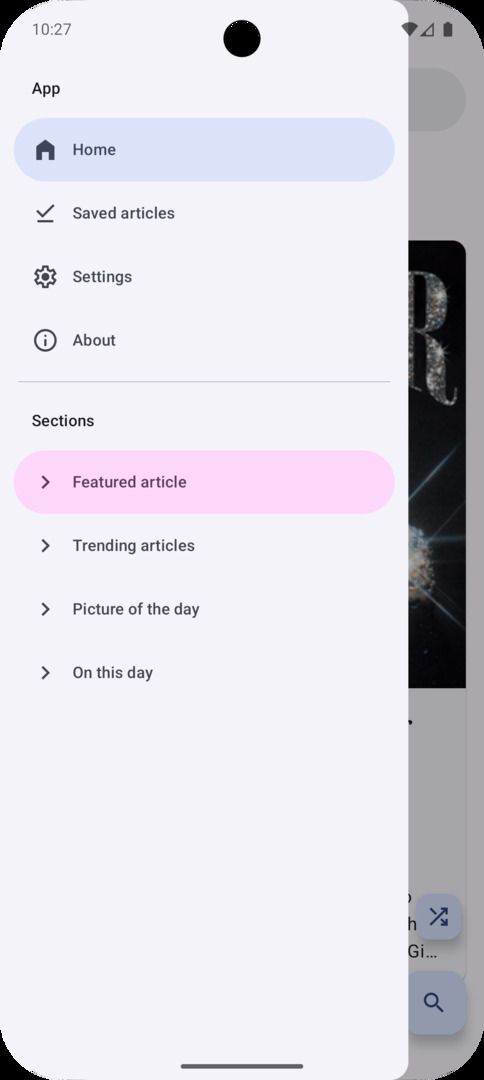
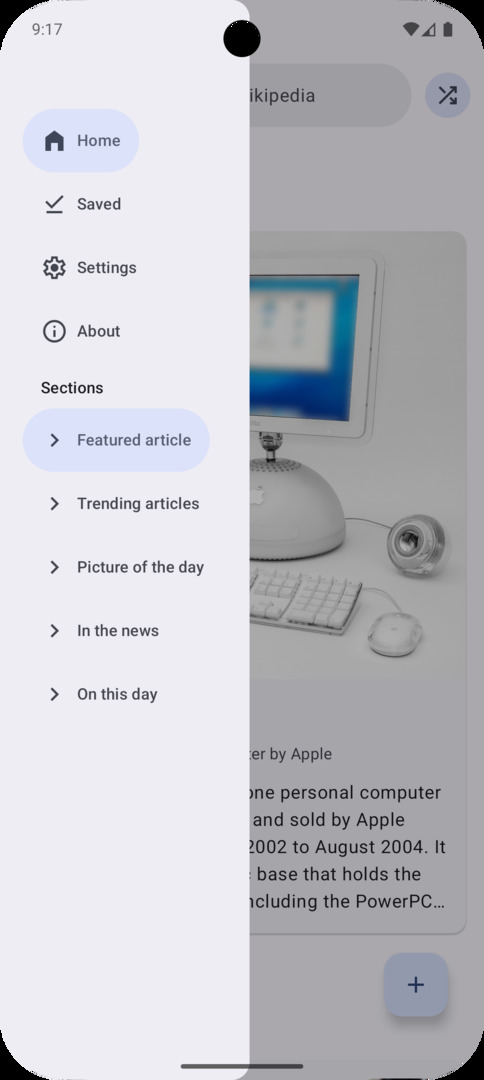
Implement page contents in navigation rail
Migration to navigation rail is now complete. #162, Closes #163

diff --git a/app/src/main/java/org/nsh07/wikireader/ui/AppNavigationDrawer.kt b/app/src/main/java/org/nsh07/wikireader/ui/AppNavigationDrawer.kt
@@ -1,17 +1,35 @@
 package org.nsh07.wikireader.ui
 
+import androidx.compose.animation.AnimatedVisibility
 import androidx.compose.animation.Crossfade
+import androidx.compose.animation.core.animateDpAsState
 import androidx.compose.animation.core.animateFloatAsState
+import androidx.compose.animation.expandHorizontally
+import androidx.compose.animation.shrinkHorizontally
+import androidx.compose.foundation.layout.Arrangement
+import androidx.compose.foundation.layout.Box
+import androidx.compose.foundation.layout.Column
 import androidx.compose.foundation.layout.Row
+import androidx.compose.foundation.layout.Spacer
+import androidx.compose.foundation.layout.asPaddingValues
+import androidx.compose.foundation.layout.fillMaxWidth
+import androidx.compose.foundation.layout.height
 import androidx.compose.foundation.layout.padding
+import androidx.compose.foundation.layout.widthIn
 import androidx.compose.foundation.lazy.LazyListState
+import androidx.compose.foundation.rememberScrollState
+import androidx.compose.foundation.verticalScroll
+import androidx.compose.material.icons.Icons
+import androidx.compose.material.icons.automirrored.outlined.KeyboardArrowRight
 import androidx.compose.material3.ExperimentalMaterial3ExpressiveApi
 import androidx.compose.material3.Icon
 import androidx.compose.material3.IconButton
 import androidx.compose.material3.MaterialTheme.motionScheme
+import androidx.compose.material3.MaterialTheme.typography
 import androidx.compose.material3.ModalWideNavigationRail
 import androidx.compose.material3.Text
 import androidx.compose.material3.WideNavigationRail
+import androidx.compose.material3.WideNavigationRailDefaults
 import androidx.compose.material3.WideNavigationRailItem
 import androidx.compose.material3.WideNavigationRailState
 import androidx.compose.material3.WideNavigationRailValue
@@ -25,6 +43,8 @@ import androidx.compose.ui.graphics.graphicsLayer
 import androidx.compose.ui.graphics.painter.Painter
 import androidx.compose.ui.res.painterResource
 import androidx.compose.ui.res.stringResource
+import androidx.compose.ui.text.style.TextOverflow
+import androidx.compose.ui.unit.Dp
 import androidx.compose.ui.unit.dp
 import androidx.navigation.NavBackStackEntry
 import androidx.navigation.NavDestination.Companion.hasRoute
@@ -34,6 +54,7 @@ import kotlinx.coroutines.CoroutineScope
 import kotlinx.coroutines.launch
 import org.nsh07.wikireader.R.drawable
 import org.nsh07.wikireader.R.string
+import org.nsh07.wikireader.data.WRStatus
 import org.nsh07.wikireader.ui.viewModel.FeedSection
 import org.nsh07.wikireader.ui.viewModel.FeedState
 import org.nsh07.wikireader.ui.viewModel.HomeScreenState
@@ -92,10 +113,11 @@ fun AppNavigationDrawer(
 
     val compactScreen =
         remember { windowSizeClass.windowWidthSizeClass == WindowWidthSizeClass.COMPACT }
-    val mediumScreen =
-        remember { windowSizeClass.windowWidthSizeClass == WindowWidthSizeClass.MEDIUM }
     val expandedScreen =
         remember { windowSizeClass.windowWidthSizeClass == WindowWidthSizeClass.EXPANDED }
+
+
+    val boxWidth = remember { 360.dp }
 
     LaunchedEffect(expandedScreen) {
         scope.launch {
@@ -104,102 +126,84 @@ fun AppNavigationDrawer(
         }
     }
 
-    Row {
-        if (compactScreen || mediumScreen) {
-            ModalWideNavigationRail(
-                state = state,
-                hideOnCollapse = compactScreen,
-                header = if (mediumScreen) {
-                    {
+    Row(modifier = modifier) {
+        AnimatedVisibility(
+            backStackEntry?.destination?.hasRoute(FullScreenImage::class) != true,
+            enter = expandHorizontally(animationSpec = motionScheme.defaultSpatialSpec()),
+            exit = shrinkHorizontally(animationSpec = motionScheme.defaultSpatialSpec())
+        ) {
+            if (compactScreen) {
+                ModalWideNavigationRail(
+                    state = state,
+                    hideOnCollapse = true
+                ) {
+                    AppNavigationRailContent(
+                        backStackEntry = backStackEntry,
+                        items = items,
+                        state = state,
+                        scope = scope,
+                        expandedScreen = expandedScreen,
+                        feedState = feedState,
+                        feedListState = feedListState,
+                        homeScreenState = homeScreenState,
+                        listState = listState,
+                        boxWidth = boxWidth
+                    )
+                }
+            } else {
+                WideNavigationRail(
+                    state = state,
+                    header = {
                         val expanded = state.targetValue == WideNavigationRailValue.Expanded
                         val rotation by animateFloatAsState(
                             if (expanded) 0f else -180f
                         )
-                        IconButton(
-                            modifier = Modifier.padding(start = 24.dp),
-                            onClick = {
-                                scope.launch {
-                                    if (expanded)
-                                        state.collapse()
-                                    else state.expand()
-                                }
-                            }
-                        ) {
-                            Crossfade(
-                                expanded,
-                                modifier = Modifier.graphicsLayer {
-                                    rotationZ = rotation
+                        Box(Modifier.fillMaxWidth()) {
+                            IconButton(
+                                modifier = Modifier.padding(start = 24.dp),
+                                onClick = {
+                                    scope.launch {
+                                        if (expanded)
+                                            state.collapse()
+                                        else state.expand()
+                                    }
                                 }
                             ) {
-                                when (it) {
-                                    true -> Icon(
-                                        painterResource(drawable.menu_open),
-                                        "Collapse rail"
-                                    )
+                                Crossfade(
+                                    expanded,
+                                    modifier = Modifier.graphicsLayer {
+                                        rotationZ = rotation
+                                    }
+                                ) {
+                                    when (it) {
+                                        true -> Icon(
+                                            painterResource(drawable.menu_open),
+                                            "Collapse rail",
+                                        )
 
-                                    else -> {
-                                        Icon(painterResource(drawable.menu), "Expand rail")
+                                        else -> Icon(
+                                            painterResource(drawable.menu),
+                                            "Expand rail"
+                                        )
                                     }
                                 }
                             }
                         }
                     }
-                } else null
-            ) {
-                AppNavigationRailContent(
-                    backStackEntry = backStackEntry,
-                    items = items,
-                    state = state,
-                    scope = scope,
-                    expandedScreen = expandedScreen
-                )
-            }
-        } else {
-            WideNavigationRail(
-                state = state,
-                header = {
-                    val expanded = state.targetValue == WideNavigationRailValue.Expanded
-                    val rotation by animateFloatAsState(
-                        if (expanded) 0f else -180f
+                ) {
+                    AppNavigationRailContent(
+                        backStackEntry = backStackEntry,
+                        items = items,
+                        state = state,
+                        scope = scope,
+                        expandedScreen = expandedScreen,
+                        feedState = feedState,
+                        feedListState = feedListState,
+                        homeScreenState = homeScreenState,
+                        listState = listState,
+                        boxWidth = boxWidth
                     )
-                    IconButton(
-                        modifier = Modifier.padding(start = 24.dp),
-                        onClick = {
-                            scope.launch {
-                                if (expanded)
-                                    state.collapse()
-                                else state.expand()
-                            }
-                        }
-                    ) {
-                        Crossfade(
-                            expanded,
-                            modifier = Modifier.graphicsLayer {
-                                rotationZ = rotation
-                            }
-                        ) {
-                            when (it) {
-                                true -> Icon(
-                                    painterResource(drawable.menu_open),
-                                    "Collapse rail",
-                                )
-
-                                else -> Icon(
-                                    painterResource(drawable.menu),
-                                    "Expand rail"
-                                )
-                            }
-                        }
-                    }
                 }
-            ) {
-                AppNavigationRailContent(
-                    backStackEntry = backStackEntry,
-                    items = items,
-                    state = state,
-                    scope = scope,
-                    expandedScreen = expandedScreen
-                )
             }
         }
         content()
@@ -210,32 +214,124 @@ fun AppNavigationDrawer(
 @Composable
 private fun AppNavigationRailContent(
     state: WideNavigationRailState,
+    feedState: FeedState,
+    feedListState: LazyListState,
+    homeScreenState: HomeScreenState,
+    listState: LazyListState,
     scope: CoroutineScope,
     backStackEntry: NavBackStackEntry?,
     expandedScreen: Boolean,
+    boxWidth: Dp,
     items: List<Item>
 ) {
-    items.forEach { item ->
-        val selected = backStackEntry?.destination?.hasRoute(item.route) == true
-        WideNavigationRailItem(
-            selected = selected,
-            onClick = {
-                scope.launch {
-                    if (!expandedScreen) state.collapse()
-                    item.onClick()
-                }
-            },
-            icon = {
-                Crossfade(selected) {
-                    when (it) {
-                        true -> Icon(item.filledIcon, null)
-                        else -> Icon(item.outlinedIcon, null)
+    val expanded = state.targetValue == WideNavigationRailValue.Expanded
+    val itemSpacing by animateDpAsState(
+        if (!expanded) 16.dp else 0.dp,
+        animationSpec = motionScheme.defaultSpatialSpec()
+    )
+    Column(
+        verticalArrangement = Arrangement.spacedBy(itemSpacing),
+        modifier = Modifier.verticalScroll(
+            rememberScrollState()
+        )
+    ) {
+        items.forEach { item ->
+            val selected = backStackEntry?.destination?.hasRoute(item.route) == true
+            WideNavigationRailItem(
+                selected = selected,
+                onClick = {
+                    scope.launch {
+                        if (!expandedScreen) state.collapse()
+                        item.onClick()
+                    }
+                },
+                icon = {
+                    Crossfade(selected) {
+                        when (it) {
+                            true -> Icon(item.filledIcon, null)
+                            else -> Icon(item.outlinedIcon, null)
+                        }
+                    }
+                },
+                label = { Text(stringResource(item.labelId)) },
+                railExpanded = expanded
+            )
+        }
+        if (expanded) {
+            Text(
+                stringResource(string.sections),
+                style = typography.titleSmall,
+                modifier = Modifier
+                    .padding(start = 36.dp, top = 12.dp, bottom = 8.dp)
+            )
+            when (homeScreenState.status) {
+                WRStatus.FEED_LOADED -> {
+                    feedState.sections.forEach { section ->
+                        WideNavigationRailItem(
+                            railExpanded = true,
+                            label = {
+                                Text(
+                                    feedSectionName(section.second),
+                                    maxLines = 1,
+                                    overflow = TextOverflow.Ellipsis,
+                                    style = typography.labelLarge,
+                                    modifier = Modifier.widthIn(max = boxWidth - 96.dp)
+                                )
+                            },
+                            selected = feedListState.firstVisibleItemIndex == section.first,
+                            onClick = {
+                                scope.launch {
+                                    if (!expandedScreen) state.collapse()
+                                    feedListState.scrollToItem(section.first)
+                                }
+                            },
+                            icon = {
+                                Icon(
+                                    Icons.AutoMirrored.Outlined.KeyboardArrowRight,
+                                    contentDescription = null
+                                )
+                            }
+                        )
                     }
                 }
-            },
-            label = { Text(stringResource(item.labelId)) },
-            railExpanded = state.targetValue == WideNavigationRailValue.Expanded,
-//            modifier = Modifier.fillMaxWidth()
+
+                WRStatus.SUCCESS -> {
+                    homeScreenState.sections.forEach { section ->
+                        WideNavigationRailItem(
+                            railExpanded = true,
+                            label = {
+                                Text(
+                                    section.second,
+                                    maxLines = 1,
+                                    overflow = TextOverflow.Ellipsis,
+                                    style = typography.labelLarge,
+                                    modifier = Modifier.widthIn(max = boxWidth - 96.dp)
+                                )
+                            },
+                            selected = listState.firstVisibleItemIndex == section.first || listState.firstVisibleItemIndex == section.first + 1,
+                            onClick = {
+                                scope.launch {
+                                    if (!expandedScreen) state.collapse()
+                                    listState.scrollToItem(section.first)
+                                }
+                            },
+                            icon = {
+                                Icon(
+                                    Icons.AutoMirrored.Outlined.KeyboardArrowRight,
+                                    contentDescription = null
+                                )
+                            }
+                        )
+                    }
+                }
+
+                else -> null
+            }
+        }
+        Spacer(
+            Modifier.height(
+                WideNavigationRailDefaults.windowInsets.asPaddingValues().calculateBottomPadding()
+            )
         )
     }
 }
